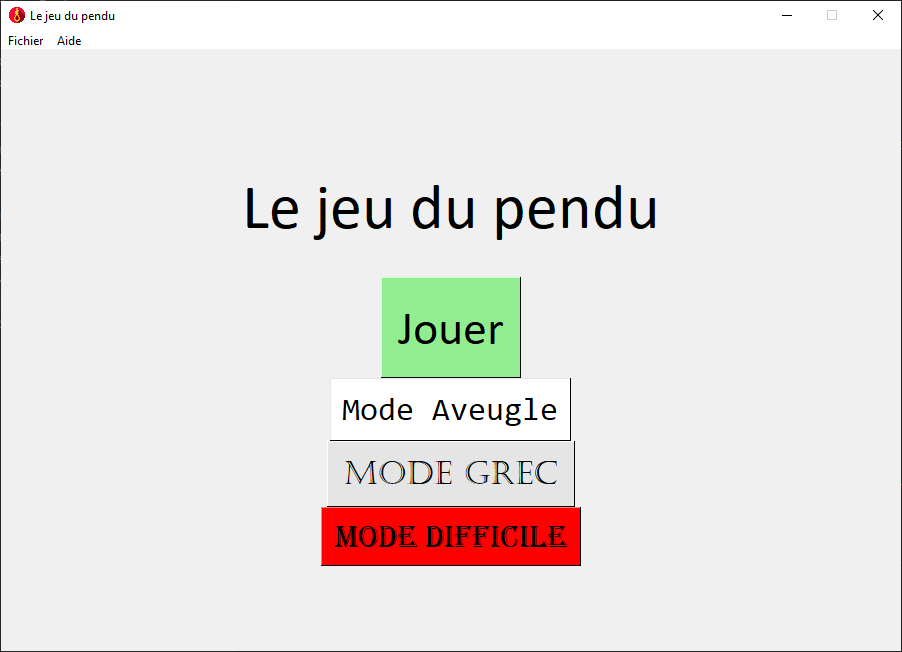
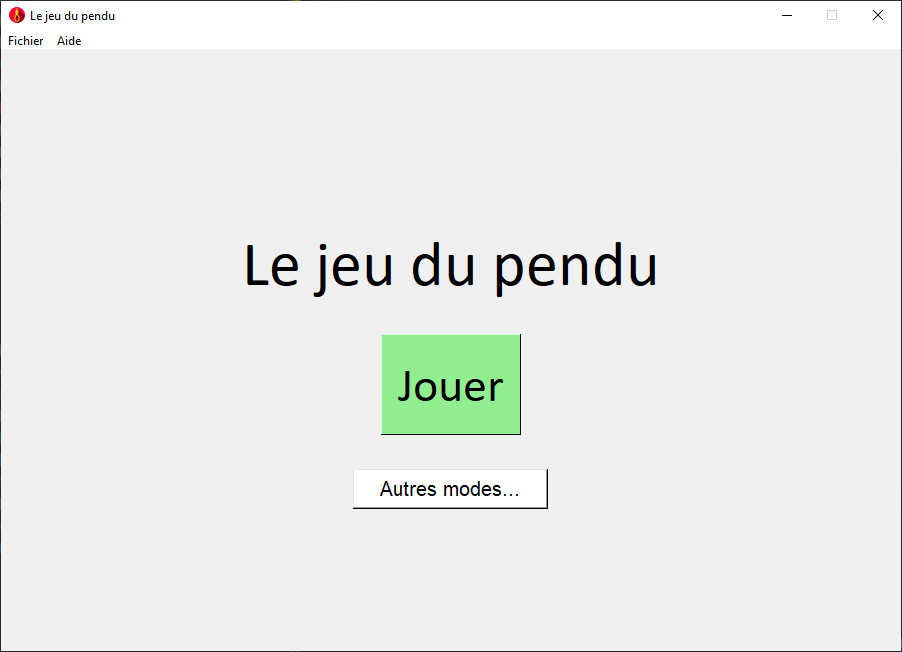
Version 1.4.0

diff --git a/pendu.py b/pendu.py
@@ -25,7 +25,7 @@ fenetre.geometry("900x600")
 frame = tk.Frame(fenetre)
 #fenetre.configure(bg='#f0f0f0')
 
-pendu_version = '1.3.6'
+pendu_version = '1.4.0'
 
 def open_link(link):
     """Ouvre un lien dans le navigateur Web par défaut"""
@@ -78,7 +78,7 @@ texte_principal('black', True)
 
 def button(pre):
     """Création du bouton principal pour lancer le jeu, fonction de retour au menu principal et lancement de la musique du menu principal"""
-    global button_play, button_play_diff, button_play_aveugle, button_play_grec
+    global button_play, espace_bouton, button_mode
     fenetre.configure(bg='#f0f0f0')
     frame.configure(bg='#f0f0f0')
     if pre==True:
@@ -89,15 +89,43 @@ def button(pre):
         canvas_dessin.destroy()
     button_play=tk.Button(frame, text="Jouer", font=("Calibri", 36), bg="lightgreen", cursor="hand2", bd=1, command=lambda:[stop_music(), initialisation(False, "normal")])
     button_play.pack(side="top")
+    espace_bouton=tk.Canvas(frame, height="30")
+    espace_bouton.pack(side="top")
+    button_mode=tk.Button(frame, text="Autres modes...", font=("Arial", 15), cursor="hand2", bg="#fff", padx="20", command=lambda:autres_modes())
+    button_mode.pack(side="top")
+    play_music("music\\Menu.mp3", True)
+button(False)
+create_mots_utilisees()
+
+def autres_modes():
+    global button_play, espace_bouton, button_mode, button_play_diff, button_play_aveugle, button_play_grec, button_main_menu
+    button_play.destroy()
+    espace_bouton.destroy()
+    button_mode.destroy()
     button_play_aveugle=tk.Button(frame, text="Mode Aveugle", font=("Consolas", 24),bg="white", cursor="hand2", bd=1, command=lambda:[stop_music(), initialisation(False, "aveugle")])
     button_play_aveugle.pack(side="top")
     button_play_grec=tk.Button(frame, text="Mode Grec", font=("Castellar", 24),bg="#e5e5e5", cursor="hand2", bd=1, command=lambda:[stop_music(), initialisation(False, 'grec')])
     button_play_grec.pack(side="top")
     button_play_diff=tk.Button(frame, text="Mode Difficile", font=("Algerian", 24),bg="red", cursor="hand2", bd=1, command=lambda:[stop_music(), initialisation(False, "diff")])
     button_play_diff.pack(side="top")
-    play_music("music\\Menu.mp3", True)
-button(False)
-create_mots_utilisees()
+    espace_bouton=tk.Canvas(frame, height="30")
+    espace_bouton.pack(side="top")
+    button_main_menu=tk.Button(frame, text="Retour au menu principal", font=("Arial", 15), cursor="hand2", bg="#fff", padx="20", command=lambda:return_main_menu())
+    button_main_menu.pack(side="top")
+
+def return_main_menu():
+    global button_play_aveugle, button_play_grec, button_play_diff, espace_bouton, button_main_menu, button_mode, button_play
+    button_play_aveugle.destroy()
+    button_play_grec.destroy()
+    button_play_diff.destroy()
+    espace_bouton.destroy()
+    button_main_menu.destroy()
+    button_play=tk.Button(frame, text="Jouer", font=("Calibri", 36), bg="lightgreen", cursor="hand2", bd=1, command=lambda:[stop_music(), initialisation(False, "normal")])
+    button_play.pack(side="top")
+    espace_bouton=tk.Canvas(frame, height="30")
+    espace_bouton.pack(side="top")
+    button_mode=tk.Button(frame, text="Autres modes...", font=("Arial", 15), cursor="hand2", bg="#fff", padx="20", command=lambda:autres_modes())
+    button_mode.pack(side="top")
 
 def fond_color(color):
     """Applique la couleur de fond donné en paramètre à tous les éléments de la partie pour permettre un changement d'ambiance."""
@@ -299,7 +327,8 @@ class Window(tk.Toplevel):
 
 def update():
     """Crée une sous-fenêtre à l'aide de la classe Window pour afficher les notes de mises à jour"""
-    texte_update = """<ul><li><b>Version 1.3.6</b><ol><li>Mise à jour de la section &laquo; Aide &raquo; du jeu du pendu</li><li>Le jeu du pendu prend désormais en charge plusieurs versions de Windows (7, 8, 8.1, 10 et 11) !</li><li>Ajout d'une option pour vérifier les mises à jour du jeu du pendu</li><li>Ajout d'un bouton dans la barre de menu pour ouvrir le dépôt GitHub</li><li>Déplacement du bouton pour fermer les fenêtres &laquo; Aide &raquo;, &laquo; Notes de mises à jour &raquo; et &laquo; Contributeurs &raquo;.</li></ol></li>
+    texte_update = """<ul><li><b>Version 1.4.0</b><ol><li>Séparation du mode normal et des autres modes dans le menu principal en les déplaçant dans une partie accessible à l'aide du bouton sur le menu principal</li></ol></li>
+        <li><b>Version 1.3.6</b><ol><li>Mise à jour de la section &laquo; Aide &raquo; du jeu du pendu</li><li>Le jeu du pendu prend désormais en charge plusieurs versions de Windows (7, 8, 8.1, 10 et 11) !</li><li>Ajout d'une option pour vérifier les mises à jour du jeu du pendu</li><li>Ajout d'un bouton dans la barre de menu pour ouvrir le dépôt GitHub</li><li>Déplacement du bouton pour fermer les fenêtres &laquo; Aide &raquo;, &laquo; Notes de mises à jour &raquo; et &laquo; Contributeurs &raquo;.</li></ol></li>
         <li><b>Version 1.3.5</b><ol><li>Correction d'un bug sur la création des répertoires pour le stockage du score</li><li>Correction d'une erreur dans un des mots du mode Grec</li><li>Mise à jour des sections &laquo; Contributeurs&raquo;, &laquo; Aide &raquo; et &laquo; À propos &raquo;</li><li>Ajout de mots au mode Grec</li><li>Les mots déjà apparus dans une partie ne devrait plus ré-apparaître sauf si vous enchaînez 105 parties de pendu en utilisant la même fenêtre</li></ol></li>
         <li><b>Version 1.3.4</b><ol><li>Changement de l'emplacement du stockage du score, pour une meilleure compatibilité pour l'installation dans le dossier "Programs Files" de Windows</li></ol></li>
         <li><b>Version 1.3.3</b><ol><li>Optimisation du code</li><li>Ajout de la section &laquo; Contributeurs &raquo;</li><li>Correction d'un bug qui bloquait le lancement d'une partie en mode &laquo; Normal &raquo;</li><li>Correction d'un bug qui empêchait le meilleur score de monter à plus de 9</li></ol></li>
@@ -556,6 +585,9 @@ def initialisation(replay, mode_jeu):
         label_rejouer.destroy()
         mot_cache_label.destroy()
         canvas_dessin.destroy()
+    else:
+        button_main_menu.destroy()
+        espace_bouton.destroy()
     nb_erreurs = 1
     lettres_utilisees=[]
     if mode=='diff':
